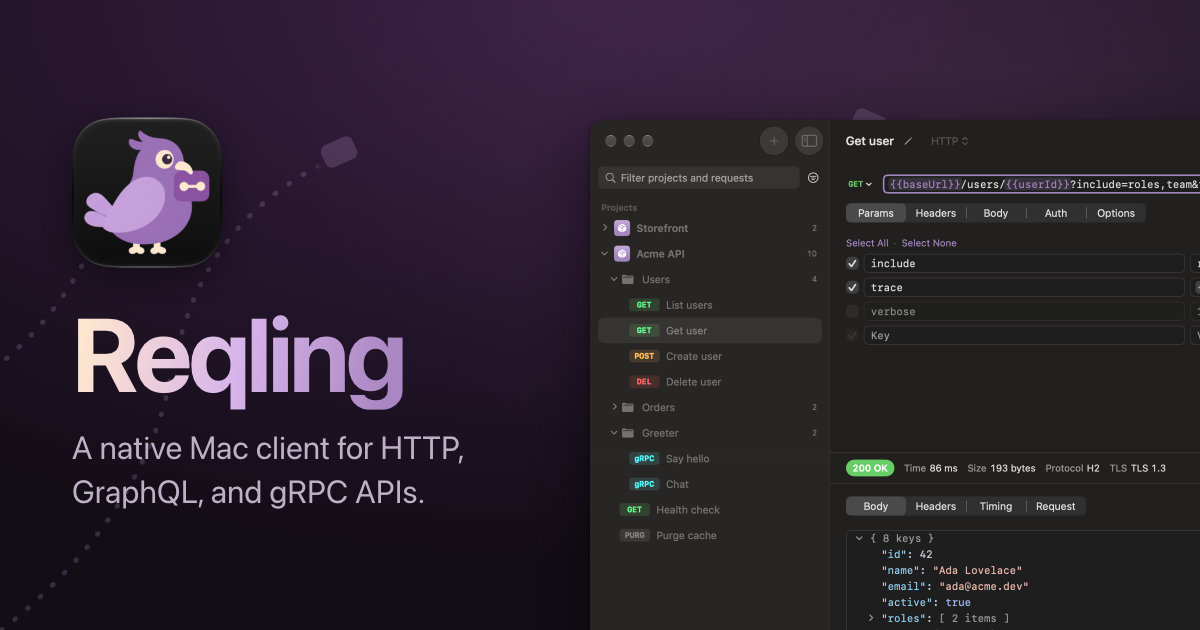
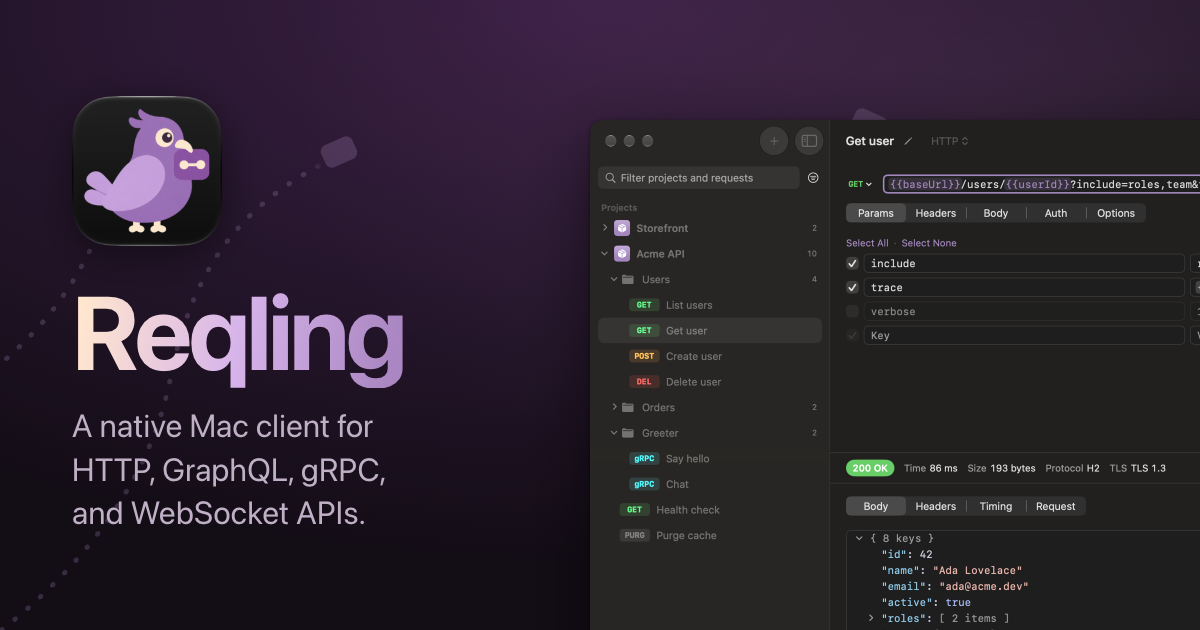
Add event stream and WebSocket sections
Each section shows a capture from `main`'s new `events` and `websocket` screenshot scenes. The tagline, descriptions, and link preview now name WebSocket APIs.

Changed region(s): [[0.0617, 0.4524, 0.4008, 0.8444], [0.0617, 0.1508, 0.185, 0.4222]]

diff --git a/index.html b/index.html
@@ -6,7 +6,7 @@
     <meta name="viewport" content="width=device-width, initial-scale=1">
     <title>Reqling</title>
     <meta name="description"
-        content="Reqling is a native macOS client for HTTP, GraphQL, and gRPC APIs: keep your requests as plain files in your repository, and send them yourself or through your AI agent.">
+        content="Reqling is a native macOS client for HTTP, GraphQL, gRPC, and WebSocket APIs: keep your requests as plain files in your repository, and send them yourself or through your AI agent.">
 
     <meta name="theme-color" content="#fbf7fa" media="(prefers-color-scheme: light)">
     <meta name="theme-color" content="#130d16" media="(prefers-color-scheme: dark)">
@@ -15,7 +15,7 @@
     <meta property="og:type" content="website">
     <meta property="og:url" content="https://reqling.af.codes">
     <meta property="og:description"
-        content="A native macOS client for HTTP, GraphQL, and gRPC APIs: keep your requests as plain files in your repository, and send them yourself or through your AI agent.">
+        content="A native macOS client for HTTP, GraphQL, gRPC, and WebSocket APIs: keep your requests as plain files in your repository, and send them yourself or through your AI agent.">
     <!-- Rendered from og-image/ on the dark theme; re-render it whenever the
          name, tagline, dark colors, flight paths, icon or the dark request
          screenshot change (AGENTS.md). -->
@@ -105,8 +105,8 @@
 
             <h1>Reqling</h1>
             <p class="tagline">
-                A small, native Mac client for HTTP, GraphQL, and gRPC APIs. Keep your requests in your repository, and send
-                them yourself or through your AI agent.
+                A small, native Mac client for HTTP, GraphQL, gRPC, and WebSocket APIs. Keep your requests in your
+                repository, and send them yourself or through your AI agent.
             </p>
 
             <div class="cta-row">
@@ -240,6 +240,43 @@
                     media="(prefers-color-scheme: dark)">
                 <img class="screenshot" src="images/grpc-light.webp"
                     alt="The Chat gRPC request, a bidirectional stream to acme.greeter.v1.Greeter over TLS with its schema from greeter.binpb, above a timeline of two messages sent and two greetings received, ending OK in 48 ms."
+                    width="1920" height="1248" loading="lazy" decoding="async">
+            </picture>
+        </div>
+    </section>
+
+    <section class="section-feature section-centered" id="events">
+        <div class="container">
+            <p class="chip">Event streams</p>
+            <h2>Watch events as they arrive</h2>
+            <p class="feature-copy">
+                A <code>text/event-stream</code> response stays open and lists each event with its type, ID, and time,
+                its JSON opened to its fields. A GET stream reconnects with <code>Last-Event-ID</code>, as a browser's
+                would.
+            </p>
+            <picture>
+                <source srcset="images/events-dark.webp" type="image/webp" data-theme="dark"
+                    media="(prefers-color-scheme: dark)">
+                <img class="screenshot" src="images/events-light.webp"
+                    alt="The Order updates request in Acme API's Live folder, a GET to {{baseUrl}}/orders/stream?status=open with an Accept: text/event-stream header, above its stopped 200 OK stream: an order.created event and two order.updated events, with IDs 1041 to 1043, each opened to its fields."
+                    width="1920" height="1248" loading="lazy" decoding="async">
+            </picture>
+        </div>
+    </section>
+
+    <section class="section-feature section-centered" id="websockets">
+        <div class="container">
+            <p class="chip">WebSockets</p>
+            <h2>Keep the conversation going</h2>
+            <p class="feature-copy">
+                Save the messages a connection opens with, sent in order, then send more while it's live. Text and
+                binary go both ways on one timeline, with pings, pongs, and close codes.
+            </p>
+            <picture>
+                <source srcset="images/websocket-dark.webp" type="image/webp" data-theme="dark"
+                    media="(prefers-color-scheme: dark)">
+                <img class="screenshot" src="images/websocket-light.webp"
+                    alt="The Support chat WebSocket request to wss://api.acme.dev/support, with an auth message sending {{token}} on connect and a saved “Where's order 1041?” to send by hand. Below, its connection over the chat.v2 subprotocol closed with 1000 Normal Closure after 18.31 s, its timeline showing the auth message with the token masked, a chat with Ada about order 1041, a ping from the server, and both close frames."
                     width="1920" height="1248" loading="lazy" decoding="async">
             </picture>
         </div>

diff --git a/og-image/og-image.html b/og-image/og-image.html
@@ -115,7 +115,7 @@
                 <img src="../images/app-icon-dark.png" alt="" width="256" height="256">
             </picture>
             <h1>Reqling</h1>
-            <p class="tagline">A native Mac client for HTTP, GraphQL, and gRPC APIs.</p>
+            <p class="tagline">A native Mac client for HTTP, GraphQL, gRPC, and WebSocket APIs.</p>
         </div>
 
         <div class="hero-media">

diff --git a/AGENTS.md b/AGENTS.md
@@ -19,7 +19,7 @@ Built per the global `static-site-rules` skill, as a sibling of the Alveary, Chr
 
 ### Screenshots
 
-`images/{request,body,graphql,grpc}-{light,dark}.webp` are 1920x1248 captures of the main window from `main`'s screenshot mode, which seeds a fixed demo project (`ScreenshotDemoProject`), so the alt text describes that data. To regenerate:
+`images/{request,body,graphql,grpc,events,websocket}-{light,dark}.webp` are 1920x1248 captures of the main window from `main`'s screenshot mode, which seeds a fixed demo project (`ScreenshotDemoProject`), so the alt text describes that data. To regenerate:
 
 1. On `main`, run `./scripts/screenshots.sh -b` on a Retina display. It writes 2400x1560 PNGs of the window alone, with transparent rounded corners, to `.build/screenshots/<scene>-<light|dark>.png`.
 2. Downscale each by four fifths, which keeps both sides integral: `sips -z 1248 1920 <scene>-<theme>.png --out <tmp>.png`.
